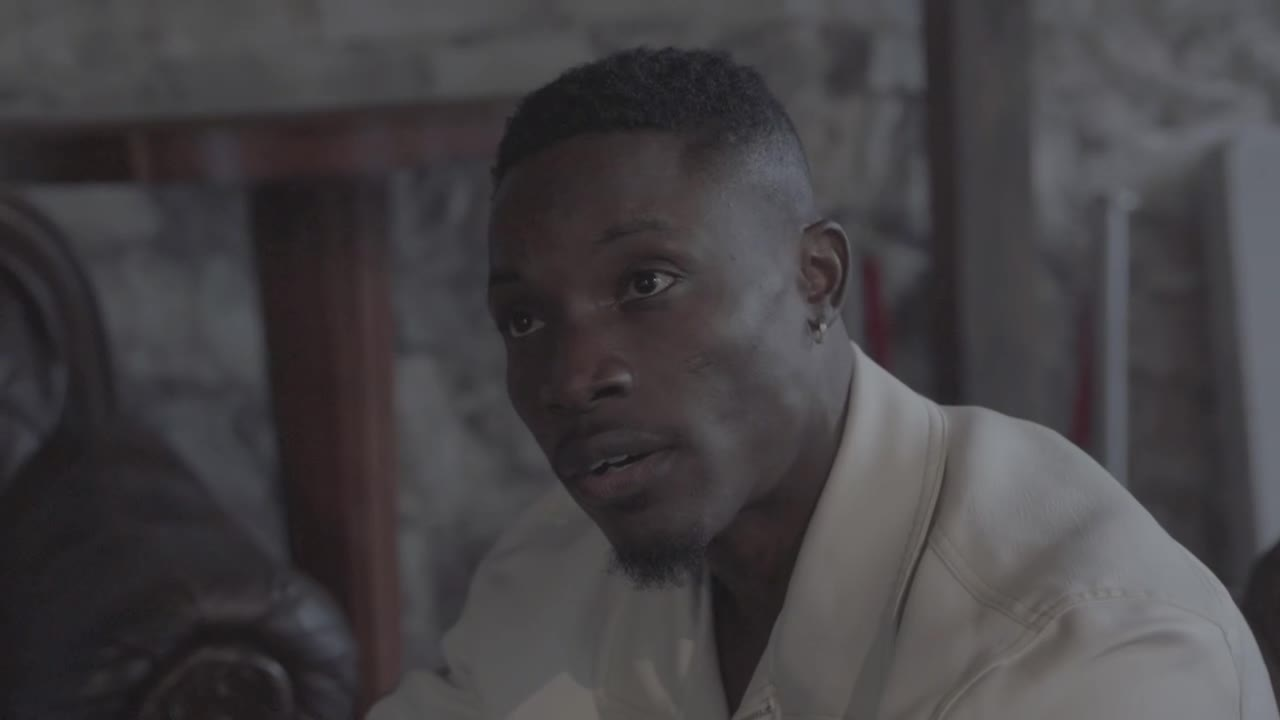
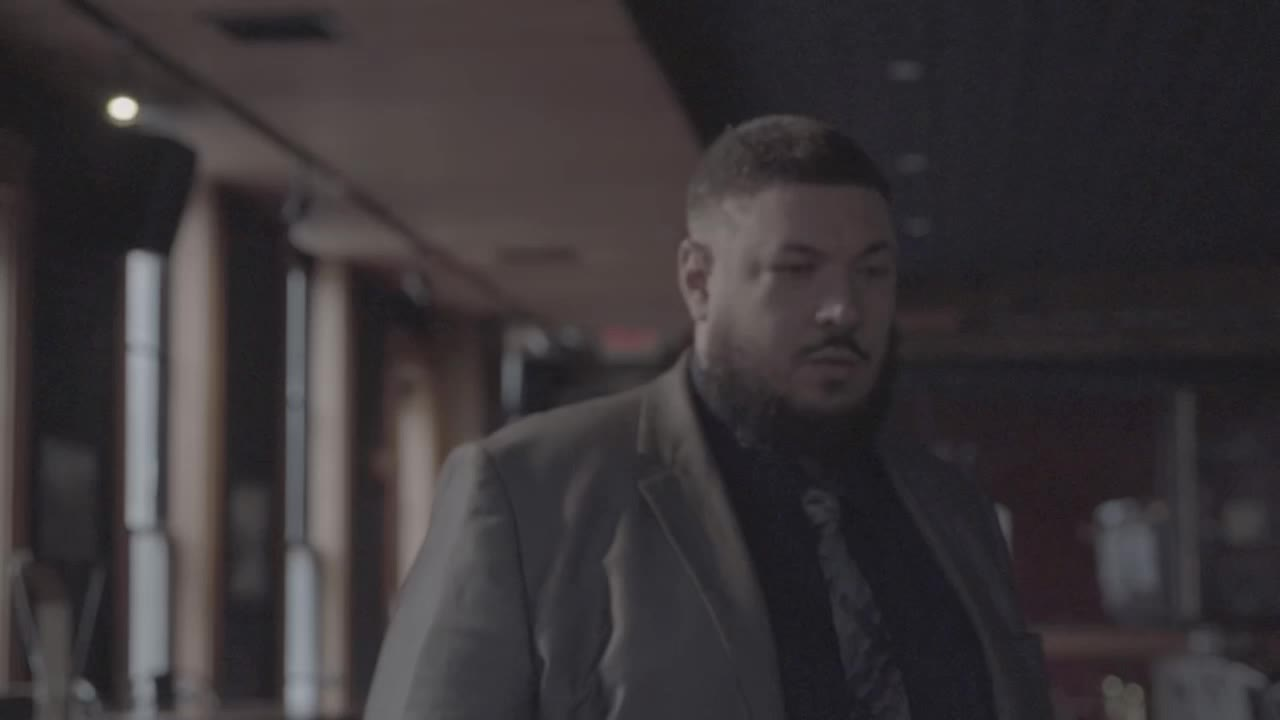
fix: use Lorenzo for poster, native controls for player
- Swap thumbnail to a frame featuring Lorenzo (the lawyer) instead of the crime boss.
- Replace custom click-to-play overlay with plain <video controls>;
  native player UI is more reliable across browsers and was the cause
  of the click-doesn't-play bug.
- Switch object-fit to contain so the 16:9 footage shows letterboxed
  rather than cropped at common widths.

diff --git a/src/components/VideoPlayer/index.tsx b/src/components/VideoPlayer/index.tsx
@@ -1,6 +1,3 @@
-'use client';
-
-import { useRef, useState } from 'react';
 import styles from './video-player.module.css';
 
 interface VideoPlayerProps {
@@ -10,46 +7,18 @@ interface VideoPlayerProps {
 }
 
 export default function VideoPlayer({ src, poster, title }: VideoPlayerProps) {
-  const videoRef = useRef<HTMLVideoElement>(null);
-  const [started, setStarted] = useState(false);
-
-  const handlePlay = () => {
-    const v = videoRef.current;
-    if (!v) return;
-    setStarted(true);
-    v.play().catch(() => setStarted(false));
-  };
-
   return (
     <div className={styles.videoContainer}>
       <div className={styles.videoFrame}>
         <video
-          ref={videoRef}
           className={styles.video}
           src={src}
           poster={poster}
+          controls
           preload="metadata"
-          controls={started}
           playsInline
           aria-label={title}
         />
-        {!started && (
-          <button
-            type="button"
-            className={styles.playOverlay}
-            onClick={handlePlay}
-            aria-label={`Play ${title ?? 'video'}`}
-          >
-            <svg width="88" height="62" viewBox="0 0 68 48" aria-hidden="true">
-              <path
-                className={styles.playButtonBg}
-                d="M66.52,7.74c-0.78-2.93-2.49-5.41-5.42-6.19C55.79,.13,34,0,34,0S12.21,.13,6.9,1.55 C3.97,2.33,2.27,4.81,1.48,7.74C0.06,13.05,0,24,0,24s0.06,10.95,1.48,16.26c0.78,2.93,2.49,5.41,5.42,6.19 C12.21,47.87,34,48,34,48s21.79-0.13,27.1-1.55c2.93-0.78,4.64-3.26,5.42-6.19C67.94,34.95,68,24,68,24S67.94,13.05,66.52,7.74z"
-                fill="#212121"
-              />
-              <path d="M 45,24 27,14 27,34" fill="#ffd700" />
-            </svg>
-          </button>
-        )}
       </div>
     </div>
   );

diff --git a/src/components/VideoPlayer/video-player.module.css b/src/components/VideoPlayer/video-player.module.css
@@ -20,37 +20,6 @@
   left: 0;
   width: 100%;
   height: 100%;
-  object-fit: cover;
+  object-fit: contain;
   background-color: #0a0a0a;
-}
-
-.playOverlay {
-  position: absolute;
-  inset: 0;
-  display: flex;
-  align-items: center;
-  justify-content: center;
-  background: transparent;
-  border: none;
-  padding: 0;
-  cursor: pointer;
-  transition: transform 0.2s ease;
-}
-
-.playOverlay:hover {
-  transform: scale(1.05);
-}
-
-.playOverlay:focus-visible {
-  outline: 2px solid #ffd700;
-  outline-offset: -4px;
-}
-
-.playButtonBg {
-  opacity: 0.85;
-  transition: opacity 0.2s ease;
-}
-
-.playOverlay:hover .playButtonBg {
-  opacity: 1;
 }